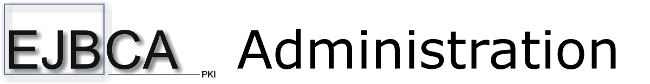
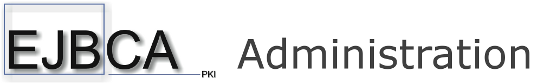
ECA-1961 Header, Footer, and global layout improved
git-svn-id: https://svn.cesecore.eu/svn/ejbca/trunk@10805 37aeb1de-b14b-0410-9a0e-82b28170d228

Changed region(s): [[0.0, 0.0238, 0.9891, 0.9286], [0.6182, 0.3571, 0.6491, 0.4286], [0.5564, 0.3571, 0.5873, 0.4286]]

diff --git a/ejbca/modules/admin-gui/resources/themes/default_theme.css b/ejbca/modules/admin-gui/resources/themes/default_theme.css
@@ -97,6 +97,9 @@ body {
 code, code *, pre, pre * {
 	font-family: "Courier New", Courier, monospace;
 }
+a img {
+	border-width: 0px;
+}
 
 
 /*--------------------------------------------------------------------------*/
@@ -191,6 +194,19 @@ body#header {
 	padding: 0em;
 	background-color: #FFF;
 	color: #000;
+	overflow: hidden;
+}
+#header div#banner {
+	height: 84px;
+}
+#header div#banner img {
+	max-height: 84px;
+	margin-top: 0px;
+	/* For ALT */
+	color: #404040;
+	font-size: 3em;
+	line-height: 1.9em;
+	white-space: nowrap;
 }
 
 /* Footer */

diff --git a/ejbca/modules/admin-gui/resources/themes/second_theme.css b/ejbca/modules/admin-gui/resources/themes/second_theme.css
@@ -97,6 +97,9 @@ body {
 code, code *, pre, pre * {
 	font-family: "Courier New", Courier, monospace;
 }
+a img {
+	border-width: 0px;
+}
 
 
 /*--------------------------------------------------------------------------*/
@@ -191,6 +194,19 @@ body#header {
 	padding: 0em;
 	background-color: #FFF;
 	color: #000;
+	overflow: hidden;
+}
+#header div#banner {
+	height: 84px;
+}
+#header div#banner img {
+	max-height: 84px;
+	margin-top: 0px;
+	/* For ALT */
+	color: #404040;
+	font-size: 3em;
+	line-height: 1.9em;
+	white-space: nowrap;
 }
 
 /* Footer */
